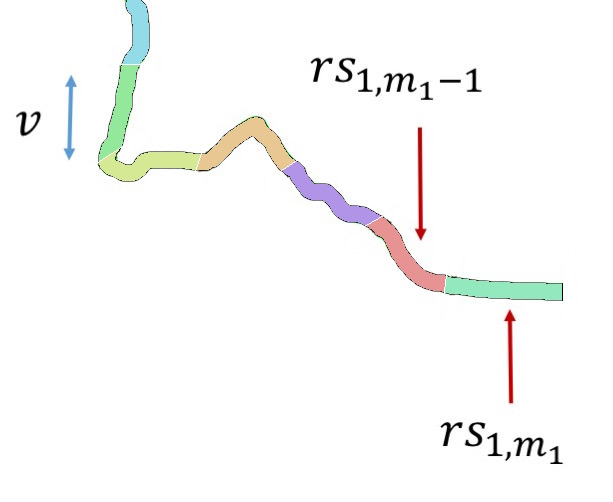
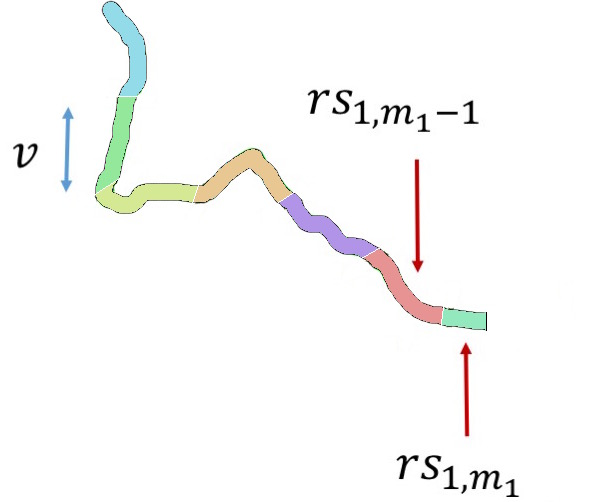
Added images and Update Chapter 7

diff --git a/Chapters/Chapter07.tex b/Chapters/Chapter07.tex
@@ -6,7 +6,7 @@ Prima di proseguire nel metodo bisogna definire alcune notazioni:
 
 \begin{enumerate}
 	\setcounter{enumi}{18}
-	\item \textbf{$ \mathcal{R} $ (Routes)} $ = \{r_k(k=1,..,\mathbf{card}(\mathcal{R}) | r_k $ è una \textit{Route} ubicata all'interno dei confini della  GeoArea \}. Per \textit{Route} si intende una generica tratta (come ad esempio una ferrovia, un'autostrada) (Immagine \ref{img:route}) descritta dalla tupla < \textit{ID}, \textit{Name}, \textit{geometry}>. Il campo \textit{ID} identifica univocamente la tratta; \textit{Name} una sua etichetta nominale; \textit{geometry} rappresenta una geometria che descrive la tratta sul territorio. Nelle notazioni introdotte di seguito l'occorrenza del pedice $\{k\}$ viene usata $sempre$ per richiamare la \textit{Route} $k-esima$, ovvero alla tratta $r_k$ di $ \mathcal{R} $.
+	\item \textbf{$ \mathcal{R} $ (Routes)} $ = \{r_k(k=1,..,\mathbf{card}(\mathcal{R}) | r_k $ è una \textit{Route} ubicata all'interno dei confini della  GeoArea \}. Per \textit{Route} si intende una generica tratta (come ad esempio una ferrovia, un'autostrada) descritta dalla tupla < \textit{ID}, \textit{Name}, \textit{geometry}>. Il campo \textit{ID} identifica univocamente la tratta; \textit{Name} una sua etichetta nominale; \textit{geometry} rappresenta una geometria che descrive la tratta sul territorio. Nelle notazioni introdotte di seguito l'occorrenza del pedice $\{k\}$ viene usata $sempre$ per richiamare la \textit{Route} $k-esima$, ovvero alla tratta $r_k$ di $ \mathcal{R} $.
 	
 		\begin{figure}[h]
 		\centering
@@ -34,8 +34,8 @@ Il numero $m_{k}$ di sotto-tratte è pari all'arrotondamento in eccesso tra il r
 
 	\begin{figure}[h]
 	\centering
-	\includegraphics[width=0.4\textwidth]{images/routes2}
-	\caption{}
+	\includegraphics[width=0.4\textwidth]{images/routes2_new}
+	\caption{Nella figura viene mostrata la procedura di segmentazione di una \textit{Route} in sotto-tratte di lunghezza $v$. Si può notare in questo caso che  l'ultima sotto-tratta $rs_{1,{m_1}}$ ha lunghezza inferiore a $v$}
 	\label{img:segment}
 	\end{figure}
 
@@ -45,16 +45,24 @@ Il numero $m_{k}$ di sotto-tratte è pari all'arrotondamento in eccesso tra il r
 n_{k,s}=\left\lceil\left(\frac{Lunghezza(rs_{k,s})}{q}\right)\right\rceil
 \end{equation}
 \\
-Al termine del campionamento, tutti i punti avranno una distanza dagli adiacenti pari al passo di campionamento ad eccezione dell'ultimo che avrà una distanza $\le q$. Pertanto si consiglia un passo di campionamento $q$ che sia divisibile per $v$ (in questo modo l'unico punto ad avere distanza $\le q$ dai vicini sarà l'ultimo punto della ultima sotto-tratta di $r_k$ ) Il valore di $n_{k,s}$ corrisponde alla $\mathbf{card}(\mathcal{RSP}_{k,s})$
+Al termine del campionamento, tutti i punti avranno una distanza dagli adiacenti pari al passo di campionamento ad eccezione dell'ultimo che avrà una distanza $\le q$ (Figura \ref{img:campionamento} e \ref{img:campionamento_2}). Pertanto si consiglia un passo di campionamento $q$ che sia divisibile per $v$ (in questo modo l'unico punto ad avere distanza $\le q$ dai vicini sarà l'ultimo punto della ultima sotto-tratta di $r_k$ ) Il valore di $n_{k,s}$ corrisponde alla $\mathbf{card}(\mathcal{RSP}_{k,s})$
 \\
 
-	\begin{figure}[h]
+\begin{figure}[h]
 	\centering
-	\includegraphics[width=0.4\textwidth]{images/routes3}
-	\caption{}
-	\label{img:campionamento}
-	\end{figure}
+\includegraphics[width=0.6\textwidth]{images/routes3}
+\caption{Esempio di campionamento di una \textit{Route Segment} con passo di campionamento $q$ (Caso con $v$ divisibile per $q$) }
+\label{img:campionamento}
+\end{figure}
 
+\begin{figure}[h]
+	\centering
+\includegraphics[width=0.6\textwidth]{images/routes4}
+\caption{Esempio di campionamento di una \textit{Route Segment} con passo di campionamento $q$ (Caso con $v$ non divisibile per $q$). Si nota in questo caso l'ultimo punto di colore blue si trova a distanza <$q$ dall'adiacente }
+\label{img:campionamento_2}
+\end{figure}
+
+\newpage
 \noindent Una volta ottenuti i punti $rsp_{k,s,p}$ che approssimano la sotto-tratta $rs_{k,s}$, è possibile applicare il metodo base di calcolo per l'exposure. Per il metodo esteso alle tratte, si è deciso di lavorare su due sistemi diversi per la rappresentazione della exposure. Le definiamo con le seguenti notazioni:
 
 \begin{enumerate}
@@ -70,7 +78,8 @@ $ \{exprsp_{k,s,p} (k=1,..,\mathbf{card}(\mathcal{R})),(s=1,..,\mathbf{card}(\ma
 \noindent Il secondo sistema invece parte dai risultati ottenuti dal primo ma ha l'obettivo di rappresentare l'exposure non per i singoli punti ma per le specifiche sotto-tratte $rs_{k,s}$. Il valore di exposure per singola sotto-tratta è data dalla seguente equazione:
 
 \begin{equation}\label{eq:exprs}
-exprs_{k,s}=\sum_{p=1}^{n_{k,s}} exprsp_{k,s,p}
+exprs_{k,s}=\frac{1}{n_{k,s}}\left(\sum_{p=1}^{n_{k,s}} exprsp_{k,s,p}\right)
 \end{equation}
 
-\noindent Con parole esplicite, l'exposure di una sotto-tratta $rs_{k,s}$ equivale alla somma delle exposure di tutti i punti $rsp_{k,s,p}$ ottenuti dal suo campionamento. Il risultato sarà rappresentato secondo la notazione \ref{ERS}.
+
+\noindent Con parole esplicite, l'exposure di una sotto-tratta $rs_{k,s}$ equivale alla media delle exposure di tutti i punti $rsp_{k,s,p}$ ottenuti dal suo campionamento. Il risultato sarà rappresentato secondo la notazione \ref{ERS}.
